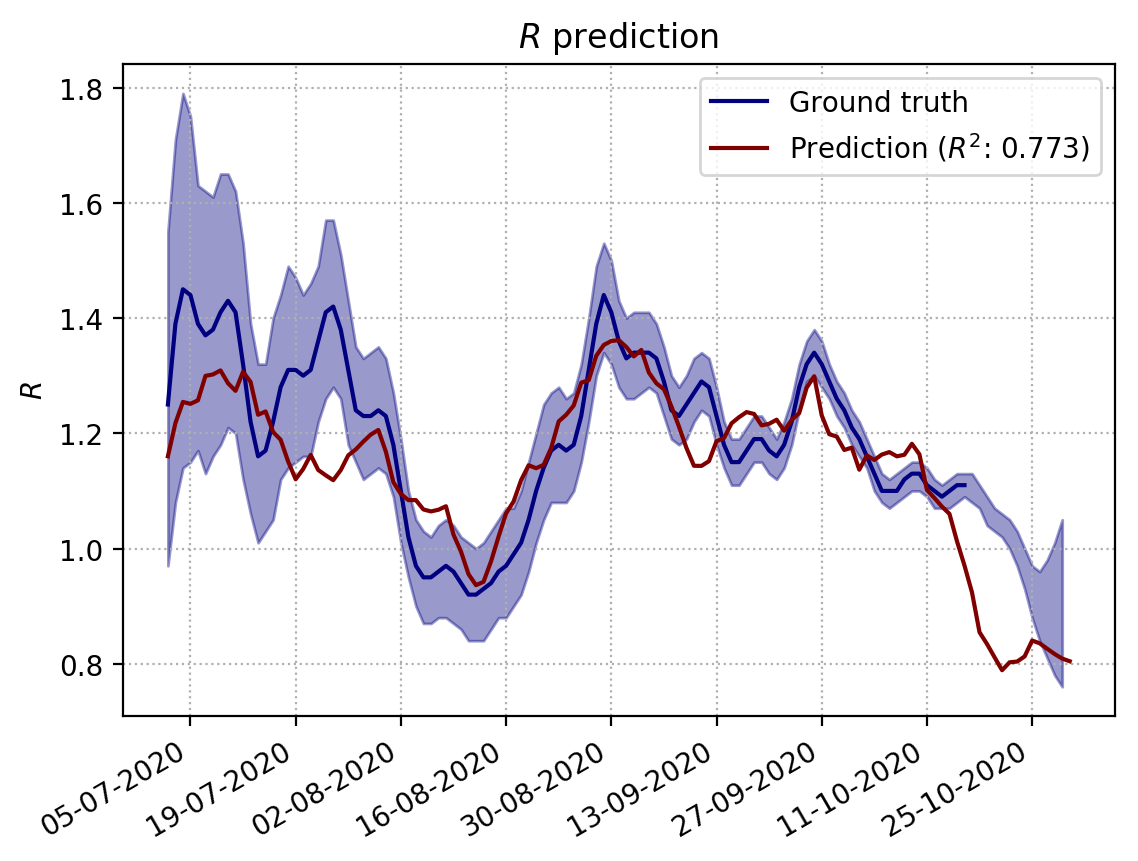
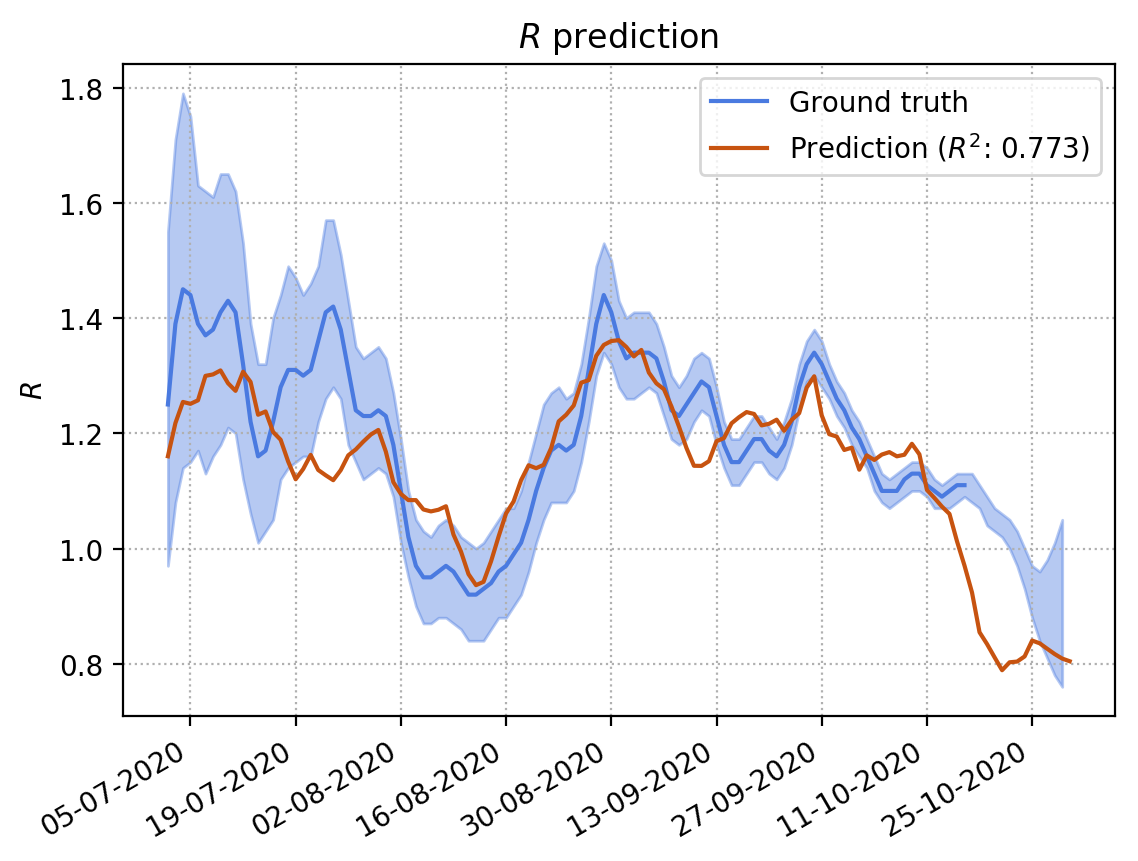
Improved contrast in line colours

Changed region(s): [[0.123, 0.1208, 0.9534, 0.7851], [0.6151, 0.151, 0.6766, 0.1812], [0.6151, 0.0906, 0.6766, 0.1208]]

diff --git a/model_coronavirus_supression.py b/model_coronavirus_supression.py
@@ -30,6 +30,9 @@ serial_interval = 5
 #number of days between infection and recovery
 time_till_recovery = 14
 
+betterblue = '#4A7AE0'
+betterorange = '#C75310'
+
 def downloadSave(url, file_name, check_file_exists = False):
 	"""
 	Return True when a new file is downloaded
@@ -1095,7 +1098,7 @@ def estimate_recent_R():
 	# df_mob_R = df_google_mob.merge(df_R, right_index = True, left_index = True)
 	df_mob_R = df_google_mob.join(df_R, how = 'outer')
 	df_mob_R = df_mob_R.join(df_apple_mob, how = 'inner')
-	df_mob_R = df_mob_R.join(df_sewage[['RNA_per_ml_smooth']], how = 'outer')
+	df_mob_R = df_mob_R.join(df_sewage[['RNA_flow_smooth']], how = 'outer')
 
 	#select date range
 	enddate_train = '2020-10-10'
@@ -1112,7 +1115,7 @@ def estimate_recent_R():
 	'transit_stations_smooth': 'Transit stations',
 	'workplaces_smooth': 'Workplaces',
 	'residential_smooth': 'Residential',
-	'RNA_per_ml_smooth': 'RNA per ml',
+	'RNA_flow_smooth': 'RNA flow smooth',
 	'driving_smooth': 'Driving',
 	'walking_smooth': 'Walking',
 	'transit_smooth': 'Transit'
@@ -1230,11 +1233,11 @@ def estimate_recent_R():
 
 		fig, ax = plt.subplots()
 
-		ax.plot(df_pred.index, df_pred.Rt_avg, label = 'Ground truth', color = 'navy')
+		ax.plot(df_pred.index, df_pred.Rt_avg, label = 'Ground truth', color = betterblue)
 		#indicate error margins on ground truth
-		ax.fill_between(df_pred.index, df_pred['Rt_low'], df_pred['Rt_up'], alpha = 0.4, color = 'navy')
+		ax.fill_between(df_pred.index, df_pred['Rt_low'], df_pred['Rt_up'], alpha = 0.4, color = betterblue)
 
-		ax.plot(df_pred.index, Y_pred, label = f'Prediction ($R^2$: {r_squared:0.03f})', color = 'maroon')
+		ax.plot(df_pred.index, Y_pred, label = f'Prediction ($R^2$: {r_squared:0.03f})', color = betterorange)
 
 		ax.grid(linestyle = ':')
 		ax.legend(loc = 'best')
@@ -1399,12 +1402,12 @@ def estimate_recent_prevalence():
 	fig, ax = plt.subplots()
 
 	#old data
-	ax.plot(df_prevalence_sel.index, df_prevalence_sel['prev_avg'], label = 'Measurements', color = 'royalblue')
+	ax.plot(df_prevalence_sel.index, df_prevalence_sel['prev_avg'], label = 'Measurements', color = betterblue)
 	#show error bars
-	ax.fill_between(df_prevalence_sel.index, df_prevalence_sel['prev_low'], df_prevalence_sel['prev_up'], alpha = 0.4, color = 'royalblue')
+	ax.fill_between(df_prevalence_sel.index, df_prevalence_sel['prev_low'], df_prevalence_sel['prev_up'], alpha = 0.4, color = betterblue)
 
 	#predictions
-	ax.plot(df_prevalence_pred.index, df_prevalence_pred['Prev_pred'], label = f'Linear prediction ($R^2 = {r_squared:0.03f}$)', color = 'maroon')
+	ax.plot(df_prevalence_pred.index, df_prevalence_pred['Prev_pred'], label = f'Linear prediction ($R^2 = {r_squared:0.03f}$)', color = betterorange)
 
 	ax.grid(linestyle = ':')
 
@@ -1412,7 +1415,7 @@ def estimate_recent_prevalence():
 
 	ax.set_title('COVID-19 estimated active cases in the Netherlands\nwith prediction of recent days')
 
-	ax.legend(loc = 'best')
+	ax.legend(loc = 'lower right')
 
 	# ax.xaxis.set_tick_params(rotation = 45)
 	# ax.xaxis.set_major_locator(mdates.AutoDateLocator(minticks = 3, maxticks = 6))
